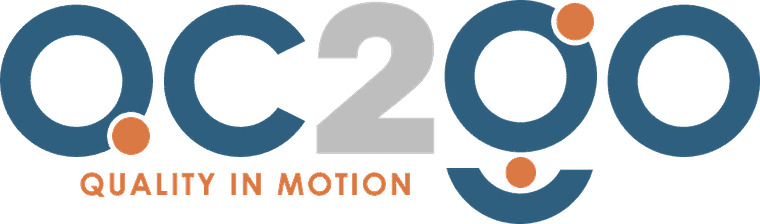
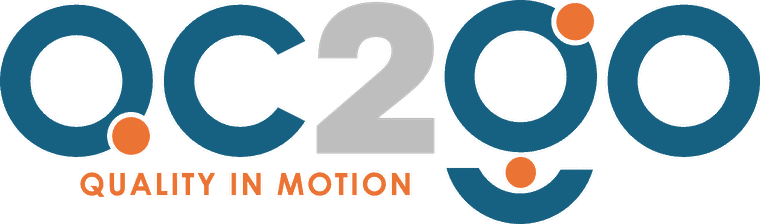
White header and white sign-in, with the brand carrying the colour
The dark bar was the loudest thing on every screen, and it was carrying
the brand by being a block of near-black rather than by being anything
of QC2GO's. It goes white, held off the page by a hairline, and the logo
and the icons do that job instead. The sign-in screen, the set-password
screen, the no-company screen and the shared-report gate go with it.

Icons and text move to ink-500, which reads as clearly on white as
white-at-80% did on near-black, and the forms that were white cards
floating on dark get a border now that they are white on white.

The header icons were the trap. Five screens drew their own back arrow or
action button with `text-white/80`, so turning the bar white would have
left five invisible white icons on a white bar — each one a tap target
somebody would have had to find by memory. They now share
`topBarActionClass`, which is the only way that stays true the next time
this changes.

The browser chrome follows: theme-color was #0f172a and is white, and the
iOS status bar goes from black-translucent, which draws white text over
whatever is beneath it, to default. Left alone it would have put white
text on the new white header. The manifest's theme colour was also still
the old approximated blue and is now the palette's #156082.

The camera screens stay dark on purpose. A photo being marked up wants
everything around it out of the way, and that is not chrome.

The sign-in lockup is rebuilt from "Logo with tagline no background.svg",
[…]

diff --git a/src/components/ui.tsx b/src/components/ui.tsx
@@ -237,6 +237,17 @@ export function AutoTextarea({
   );
 }
 
+/**
+ * The tap target for an icon sitting in the TopBar — its back arrow, and
+ * whatever a screen puts in `actions`.
+ *
+ * Exported because five screens draw their own, and when the bar went from dark
+ * to white every one of them would otherwise have kept a white icon on a white
+ * bar. One class is the only way that stays true the next time it changes.
+ */
+export const topBarActionClass =
+  'flex size-10 items-center justify-center rounded-xl text-ink-500 active:bg-ink-100';
+
 export function TopBar({
   title,
   subtitle,
@@ -280,13 +291,15 @@ export function TopBar({
       <path d="m15 18-6-6 6-6" />
     </svg>
   );
-  const backClass =
-    '-ml-1 flex size-10 shrink-0 items-center justify-center rounded-xl text-white/80 active:bg-white/10';
+  const backClass = cx('-ml-1 shrink-0', topBarActionClass);
 
   return (
     <header
       className={cx(
-        'safe-pt border-b border-ink-800/40 bg-ink-900 text-white no-print',
+        // White, with a hairline to hold it off the page rather than a block of
+        // colour. The logo and the icons carry the brand here; a dark bar was
+        // doing that job by being the loudest thing on every screen.
+        'safe-pt border-b border-ink-200 bg-white text-ink-900 no-print',
         sticky && 'sticky top-0 z-30',
       )}
     >
@@ -314,7 +327,7 @@ export function TopBar({
           ) : (
             <h1 className="truncate text-[17px] leading-tight font-semibold">{title}</h1>
           )}
-          {subtitle ? <p className="truncate text-xs text-white/60">{subtitle}</p> : null}
+          {subtitle ? <p className="truncate text-xs text-ink-500">{subtitle}</p> : null}
         </div>
         {actions ? <div className="flex shrink-0 items-center gap-1">{actions}</div> : null}
       </div>

diff --git a/src/screens/SetPasswordScreen.tsx b/src/screens/SetPasswordScreen.tsx
@@ -40,13 +40,13 @@ export function SetPasswordScreen() {
   }
 
   return (
-    <div className="safe-pt safe-pb flex min-h-screen flex-col justify-center bg-ink-900 px-5 py-10">
+    <div className="safe-pt safe-pb flex min-h-screen flex-col justify-center bg-white px-5 py-10">
       <div className="mx-auto w-full max-w-sm">
         <div className="mb-8">
           <BrandLockup />
         </div>
 
-        <form onSubmit={submit} className="rounded-2xl bg-white p-5" autoComplete="on">
+        <form onSubmit={submit} className="rounded-2xl border border-ink-200 bg-white p-5" autoComplete="on">
           <h2 className="text-[17px] font-bold text-ink-900">Choose a password</h2>
           <p className="mt-1 text-[13px] leading-relaxed text-ink-600">
             {profile?.organization?.name ? (
@@ -103,7 +103,7 @@ export function SetPasswordScreen() {
         <button
           type="button"
           onClick={() => void signOut()}
-          className="mt-5 w-full text-center text-xs text-white/50 underline"
+          className="mt-5 w-full text-center text-xs text-ink-500 underline"
         >
           Not you? Sign out
         </button>

diff --git a/src/screens/SignInScreen.tsx b/src/screens/SignInScreen.tsx
@@ -22,7 +22,7 @@ export function SignInScreen() {
   }
 
   return (
-    <div className="safe-pt safe-pb flex min-h-screen flex-col justify-center bg-ink-900 px-5 py-10">
+    <div className="safe-pt safe-pb flex min-h-screen flex-col justify-center bg-white px-5 py-10">
       <div className="mx-auto w-full max-w-sm">
         <div className="mb-8">
           <BrandLockup />
@@ -30,7 +30,7 @@ export function SignInScreen() {
 
         <form
           onSubmit={submit}
-          className="rounded-2xl bg-white p-5"
+          className="rounded-2xl border border-ink-200 bg-white p-5"
           // Let password managers recognise this as a sign-in form.
           autoComplete="on"
         >
@@ -73,7 +73,7 @@ export function SignInScreen() {
           </div>
         </form>
 
-        <p className="mt-5 text-center text-xs leading-relaxed text-white/50">
+        <p className="mt-5 text-center text-xs leading-relaxed text-ink-500">
           Accounts are created by an administrator. If you cannot get in, ask them to check
           your account rather than signing up again.
         </p>

diff --git a/src/screens/TasksScreen.tsx b/src/screens/TasksScreen.tsx
@@ -13,18 +13,7 @@ import {
 } from '../lib/tasks';
 import { formatDate, todayIso } from '../lib/inspection';
 import type { TaskState } from '../lib/types';
-import {
-  AutoTextarea,
-  Badge,
-  Button,
-  Card,
-  EmptyState,
-  Field,
-  Screen,
-  TextInput,
-  TopBar,
-  cx,
-} from '../components/ui';
+import { AutoTextarea, Badge, Button, Card, EmptyState, Field, Screen, TextInput, TopBar, cx, topBarActionClass } from '../components/ui';
 import { AlertIcon, ChevronRightIcon, ClipboardIcon, PlusIcon, TrashIcon } from '../components/Icons';
 
 /**
@@ -78,7 +67,7 @@ export function TasksScreen() {
             type="button"
             onClick={() => setAdding((current) => !current)}
             aria-label="Add a work order"
-            className="flex size-10 items-center justify-center rounded-xl text-white/80 active:bg-white/10"
+            className={topBarActionClass}
           >
             <PlusIcon className="size-5" />
           </button>

diff --git a/src/screens/ReportScreen.tsx b/src/screens/ReportScreen.tsx
@@ -16,7 +16,7 @@ import {
 import type { Answer, Question, SignatureRecord } from '../lib/types';
 import { PhotoViewer, usePhoto } from '../components/Photos';
 import { AnnotatedPhoto } from '../components/AnnotatedPhoto';
-import { Badge, Button, Card, Screen, TopBar, cx } from '../components/ui';
+import { Badge, Button, Card, Screen, TopBar, cx, topBarActionClass } from '../components/ui';
 import { Letterhead } from '../components/Letterhead';
 import { letterheadName } from '../lib/branding';
 import { downloadFile } from '../lib/exportCsv';
@@ -139,7 +139,7 @@ export function ReportScreen() {
             type="button"
             onClick={() => window.print()}
             aria-label="Print report"
-            className="flex size-10 items-center justify-center rounded-xl text-white/80 active:bg-white/10"
+            className={topBarActionClass}
           >
             <PrinterIcon className="size-5" />
           </button>

diff --git a/src/screens/HomeScreen.tsx b/src/screens/HomeScreen.tsx
@@ -5,16 +5,7 @@ import { resolveChecklist } from '../lib/checklist';
 import { overallProgress, relativeTime } from '../lib/inspection';
 import { capturePosition, customersNear, formatDistance } from '../lib/geo';
 import type { Customer } from '../lib/types';
-import {
-  Badge,
-  Button,
-  Card,
-  EmptyState,
-  Screen,
-  TopBar,
-  cx,
-  inputClass,
-} from '../components/ui';
+import { Badge, Button, Card, EmptyState, Screen, TopBar, cx, inputClass, topBarActionClass } from '../components/ui';
 import {
   AlertIcon,
   ChevronRightIcon,
@@ -139,7 +130,7 @@ export function HomeScreen() {
           <Link
             to="/settings"
             aria-label="Settings"
-            className="flex size-10 items-center justify-center rounded-xl text-white/80 active:bg-white/10"
+            className={topBarActionClass}
           >
             <SettingsIcon className="size-5" />
           </Link>

diff --git a/src/screens/NoOrganizationScreen.tsx b/src/screens/NoOrganizationScreen.tsx
@@ -15,13 +15,13 @@ export function NoOrganizationScreen() {
   const { profile, signOut } = useAuth();
 
   return (
-    <div className="safe-pt safe-pb flex min-h-screen flex-col justify-center bg-ink-900 px-5 py-10">
+    <div className="safe-pt safe-pb flex min-h-screen flex-col justify-center bg-white px-5 py-10">
       <div className="mx-auto w-full max-w-sm">
         <div className="mb-8">
           <BrandLockup />
         </div>
 
-        <div className="rounded-2xl bg-white p-5">
+        <div className="rounded-2xl border border-ink-200 bg-white p-5">
           <p className="flex items-start gap-1.5 rounded-xl bg-warn-50 px-3 py-2.5 text-[13px] font-medium text-warn-700">
             <AlertIcon className="mt-0.5 size-4 shrink-0" />
             <span>This account is not part of a company yet.</span>

diff --git a/src/screens/CustomerScreen.tsx b/src/screens/CustomerScreen.tsx
@@ -12,7 +12,7 @@ import {
 import { categoryLabel } from '../templates';
 import type { Template, VisitType } from '../lib/types';
 import { QCCard } from '../components/QCCard';
-import { Badge, Button, Card, Screen, TopBar, cx } from '../components/ui';
+import { Badge, Button, Card, Screen, TopBar, cx, topBarActionClass } from '../components/ui';
 import {
   AlertIcon,
   CheckIcon,
@@ -175,7 +175,7 @@ export function CustomerScreen() {
           <Link
             to={`/customers/${customer.id}/edit`}
             aria-label="Edit customer"
-            className="flex size-10 items-center justify-center rounded-xl text-white/80 active:bg-white/10"
+            className={topBarActionClass}
           >
             <PenIcon className="size-5" />
           </Link>

diff --git a/src/screens/SharedReportScreen.tsx b/src/screens/SharedReportScreen.tsx
@@ -60,13 +60,13 @@ export function SharedReportScreen() {
 
   if (needsPasscode) {
     return (
-      <div className="safe-pt safe-pb flex min-h-screen flex-col justify-center bg-ink-900 px-5 py-10">
+      <div className="safe-pt safe-pb flex min-h-screen flex-col justify-center bg-white px-5 py-10">
         <form
           onSubmit={(event) => {
             event.preventDefault();
             void load(passcode);
           }}
-          className="mx-auto w-full max-w-sm rounded-2xl bg-white p-5"
+          className="mx-auto w-full max-w-sm rounded-2xl border border-ink-200 bg-white p-5"
         >
           <h1 className="text-[17px] font-bold text-ink-900">This report needs a passcode</h1>
           <p className="mt-1 text-[13px] text-ink-600">

diff --git a/index.html b/index.html
@@ -12,9 +12,11 @@
       name="viewport"
       content="width=device-width, initial-scale=1.0, viewport-fit=cover, maximum-scale=1.0, user-scalable=no"
     />
-    <meta name="theme-color" content="#0f172a" />
+    <!-- Matches the header, which is white. -->
+    <meta name="theme-color" content="#ffffff" />
     <meta name="apple-mobile-web-app-capable" content="yes" />
-    <meta name="apple-mobile-web-app-status-bar-style" content="black-translucent" />
+    <!-- Dark status-bar text, because what sits under it is now white. -->
+    <meta name="apple-mobile-web-app-status-bar-style" content="default" />
     <meta name="apple-mobile-web-app-title" content="QC2GO" />
     <meta
       name="description"

diff --git a/vite.config.ts b/vite.config.ts
@@ -23,7 +23,7 @@ export default defineConfig({
         short_name: 'QC2GO',
         description:
           'Quality in motion. Mobile quality control checklists for home performance, indoor air quality, and heat pump installations.',
-        theme_color: '#1b5c7e',
+        theme_color: '#156082',
         background_color: '#f8fafc',
         display: 'standalone',
         orientation: 'portrait',

diff --git a/brand/README.md b/brand/README.md
@@ -18,7 +18,12 @@ high resolution:
 | `QC2GO Brandmark.svg` | 1150 × 1006 | 2470 × 2160 |
 
 `QC2GO Tagline Update.png` is a plain 1888 × 656 PNG rather than a wrapper —
-the corrected tagline, and the source for the sign-in lockup.
+the corrected tagline, on white.
+
+`Logo with tagline no background.svg` is the same lockup **with real
+transparency**: still a raster in a wrapper, but its mask runs the full 0–255
+and 70% of the image is fully transparent. It is what `public/qc2go-lockup.png`
+is built from, and nothing has to be keyed out of it.
 
 That is why a wordmark costs 216 KB. It also means the artwork does not scale
 the way an SVG appears to promise — enlarge it far enough and it is a photograph
@@ -31,10 +36,13 @@ navy.
 
 ## What is generated from them
 
-`public/qc2go-logo.png` (the wordmark, used in the header),
-`public/qc2go-lockup.png` (the wordmark with its tagline, used on sign-in) and
-the icon set are built from `QC2GO.svg`, `QC2GO Tagline Update.png` and
-`QC2GO Brandmark.svg` by:
+`public/qc2go-lockup.png` (the wordmark with its tagline, used on sign-in) comes
+straight out of `Logo with tagline no background.svg`: pull the raster and its
+mask out of the wrapper, trim, downscale, quantise. No keying — the file is
+already transparent.
+
+`public/qc2go-logo.png` (the wordmark alone, used in the header) and the icon
+set still come from `QC2GO.svg` and `QC2GO Brandmark.svg`, which are not, by:
 
 1. pulling the RGB raster out of the wrapper,
 2. keying pure white (all channels ≥ 250) to transparent **at full
@@ -54,7 +62,6 @@ letter. Keying after would leave one, at every size.
   superseded by `QC2GO Tagline Update.png`, which is correct and is what
   `public/qc2go-lockup.png` is built from. The original is kept only so nobody
   re-exports from it by mistake.
-- **No transparent export.** Everything above exists because every supplied
-  file, the corrected one included, has a white background baked in. A PNG or
-  SVG exported with transparency would let all of this be deleted, and would be
-  better artwork besides.
+- **The wordmark and brandmark still have no transparent export.** Only the
+  tagline lockup has one, so only it skips the keying step. The same export from
+  `QC2GO.svg` and `QC2GO Brandmark.svg` would let the rest of it go too.
